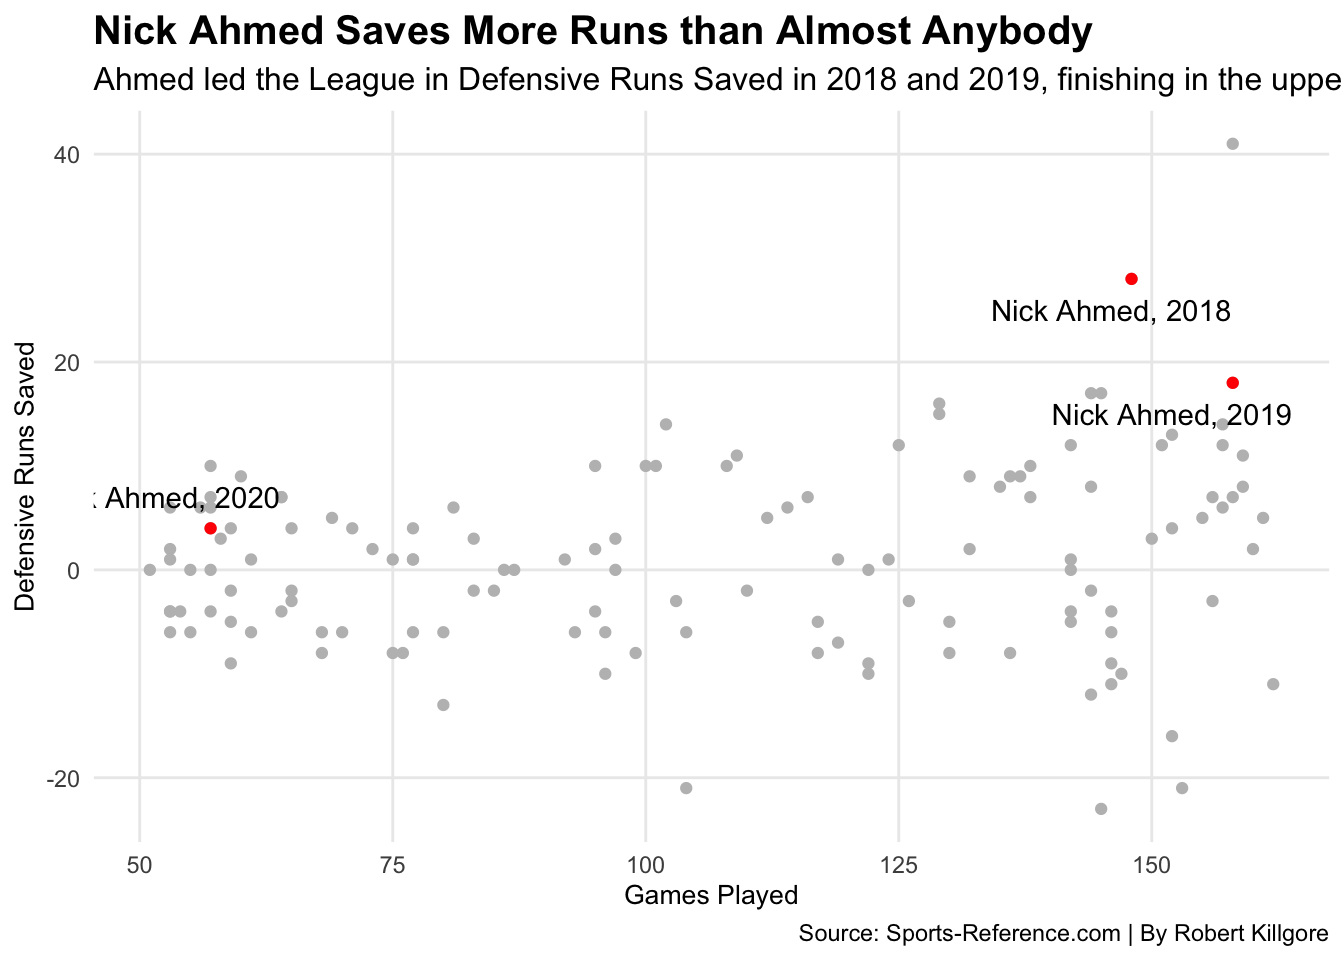
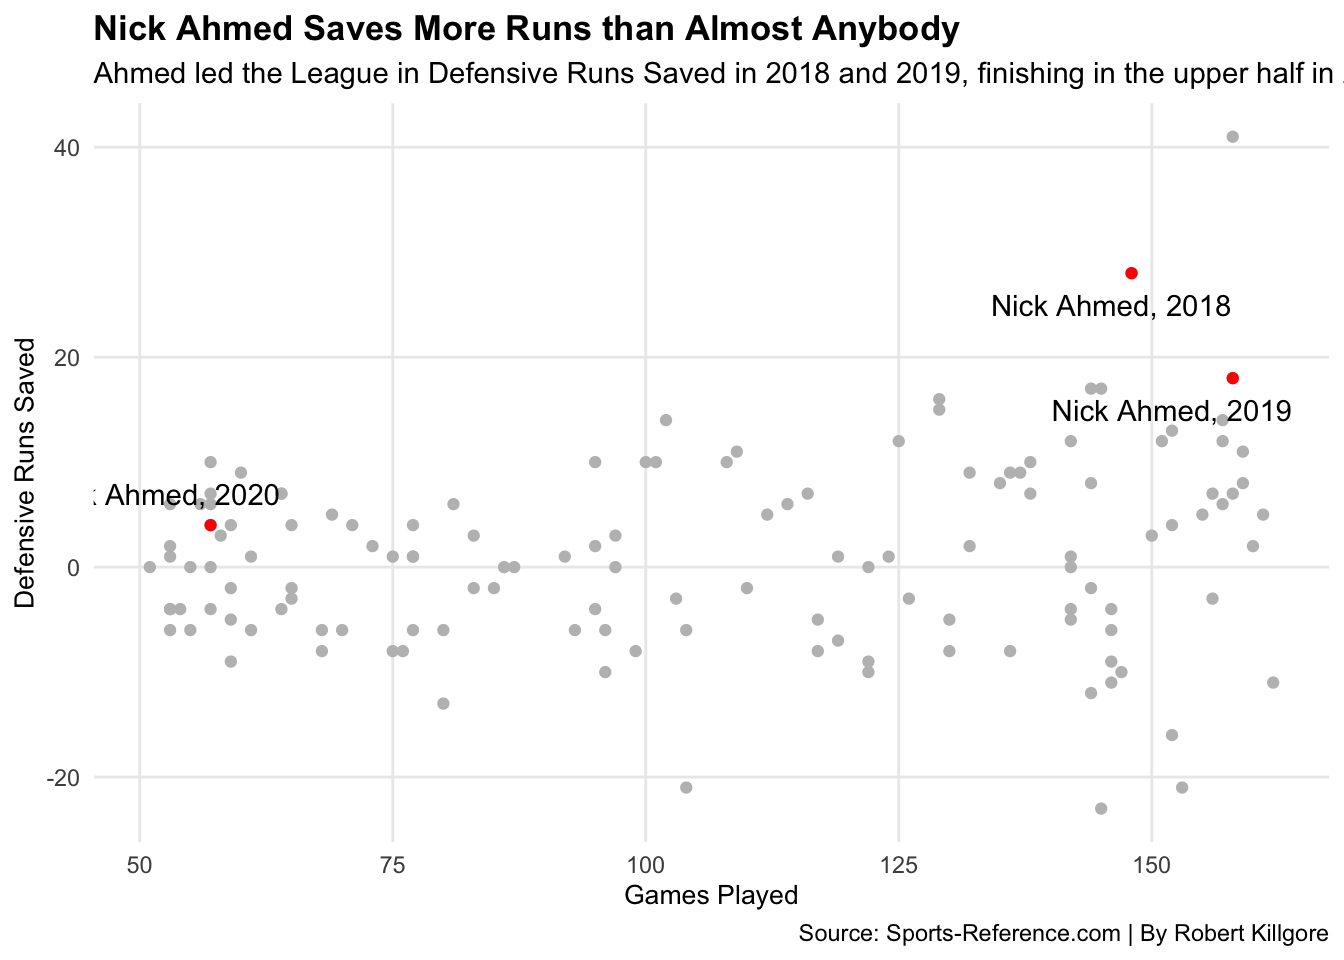
Ahmed drs post

diff --git a/2021/04/21/is-nick-ahmed-the-best-defensive-shortshop-in-basbeall/index.html b/2021/04/21/is-nick-ahmed-the-best-defensive-shortshop-in-basbeall/index.html
@@ -117,9 +117,9 @@
    labs(x=&quot;Games Played&quot;, y=&quot;Defensive Runs Saved&quot;, title=&quot;Nick Ahmed Saves More Runs than Almost Anybody&quot;, subtitle=&quot;Ahmed led the League in Defensive Runs Saved in 2018 and 2019, finishing in the upper half in 2020&quot;, caption=&quot;Source: Sports-Reference.com | By Robert Killgore&quot;) +
   theme_minimal() + 
      theme(
-    plot.title = element_text(size = 15, face = &quot;bold&quot;),
+    plot.title = element_text(size = 13, face = &quot;bold&quot;),
     axis.title = element_text(size = 10), 
-    plot.subtitle = element_text(size= 12), 
+    plot.subtitle = element_text(size= 11), 
     panel.grid.minor = element_blank()
   )</code></pre>
 <p><img src="/2021/04/21/is-nick-ahmed-the-best-defensive-shortshop-in-basbeall/index_files/figure-html/unnamed-chunk-8-1.png" width="672" /></p>
